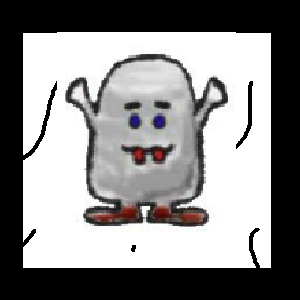
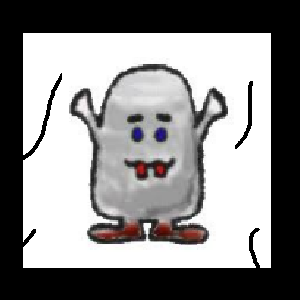
better Wumpus.png && fill pits is working

Changed region(s): [[0.18, 0.18, 0.78, 0.84], [0.21, 0.09, 0.78, 0.12]]

diff --git a/src/main/java/org/example/Game.java b/src/main/java/org/example/Game.java
@@ -256,6 +256,7 @@ public class Game implements ActionListener{
         //wumpus movement
         if(wumpus.isAlive()) wumpus.move(board, rand);
         if(monster2.isAlive()) monster2.move(board,rand,player);
+        this.updateBoard();
         playerTurn();
     }
 
@@ -443,12 +444,14 @@ public class Game implements ActionListener{
         arrow_b.setVisible(false);
         shoot_b.setVisible(false);
         drop_b.setVisible(false);
+        fill_b.setVisible(false);
 
         gold_b.setEnabled(false);
         wood_b.setEnabled(false);
         arrow_b.setEnabled(false);
         shoot_b.setEnabled(false);
         drop_b.setEnabled(false);
+        fill_b.setEnabled(false);
     }
     @Override
     public void actionPerformed(ActionEvent e) {
@@ -481,6 +484,7 @@ public class Game implements ActionListener{
                 player.setWood(player.getWood() - 1);
                 if(player.getY() + 1 < board.length && board[player.getX()][player.getY() + 1].isPit()) {
                     board[player.getX()][player.getY() + 1].setPit(false);
+                    updateWind(player.getX(), player.getY() + 1);
                     campLabels[player.getX()][player.getY() + 1].setIcon(campIcon); //todo create another icon
                 }
                 fill_state = false;
@@ -505,6 +509,7 @@ public class Game implements ActionListener{
                 player.setWood(player.getWood() - 1);
                 if(player.getX() + 1 < board.length && board[player.getX() + 1][player.getY()].isPit()) {
                     board[player.getX() + 1][player.getY()].setPit(false);
+                    updateWind(player.getX() + 1, player.getY());
                     campLabels[player.getX() + 1][player.getY()].setIcon(campIcon); //todo create another icon
                 }
                 fill_state = false;
@@ -528,6 +533,7 @@ public class Game implements ActionListener{
                 player.setWood(player.getWood() - 1);
                 if(player.getX() - 1 >= 0 && board[player.getX() - 1][player.getY()].isPit()) {
                     board[player.getX() - 1][player.getY()].setPit(false);
+                    updateWind(player.getX() - 1, player.getY());
                     campLabels[player.getX() - 1][player.getY()].setIcon(campIcon); //todo create another icon
                 }
                 fill_state = false;
@@ -580,18 +586,15 @@ public class Game implements ActionListener{
             fill_state = true;
         }
 
-        if(!lantern_state && !shoot_state && !fill_state){
-            normal_state = true;
-        }  else normal_state = false;
+        normal_state = !lantern_state && !shoot_state && !fill_state;
 
 
         if(!normal_state) hideNonDirectionButtons();
         updateConsoleAndButtons();
-        this.updateBoard();
         if(normal_state) monsterTurn();
     }
 
-    public void removeWumpus()
+    public void removeWumpus() //todo use
     {
         board[wumpus.getX()][wumpus.getY()].setWumpus(false);
         campLabels[wumpus.getX()][wumpus.getY()].setIcon(campIcon);
@@ -599,17 +602,45 @@ public class Game implements ActionListener{
 
     public void removeMonster2()
     {
-
         board[monster2.getX()][monster2.getY()].setWumpus(false);
         campLabels[monster2.getX()][monster2.getY()].setIcon(campIcon);
     }
 
     public void updateWind(int x, int y)
     {
-        if(x + 1 < board.length) board[x+1][y].setWindy(false); //todo false positives here
-        if(y + 1 < board.length) board[x][y+1].setWindy(false);
-        if(x - 1 >= 0) board[x-1][y].setWindy(false);
-        if(y - 1 >= 0) board[x][y-1].setWindy(false);
+        if(hasNearbyPit(x,y))
+            board[x][y].setWindy(true);
+        if(x + 1 < board.length){
+            if(!hasNearbyPit(x + 1, y))
+                board[x + 1][y].setWindy(false);
+        }
+        if(y + 1 < board.length){
+            if(!hasNearbyPit(x, y + 1))
+                board[x][y + 1].setWindy(false);
+        }
+        if(x - 1 >= 0){
+            if(!hasNearbyPit(x - 1, y))
+                board[x - 1][y].setWindy(false);
+        }
+        if(y - 1 >= 0){
+            if(!hasNearbyPit(x, y - 1))
+                board[x][y - 1].setWindy(false);
+        }
+    }
+
+    public boolean hasNearbyPit(int x, int y)
+    {
+        int pits = 0;
+        if(y + 1 < board.length)
+            if(board[x][y + 1].isPit()) pits++;
+        if(x + 1 < board.length)
+            if(board[x + 1][y].isPit()) pits++;
+        if(y - 1 >= 0)
+            if(board[x][y - 1].isPit()) pits++;
+        if(x - 1 >= 0)
+            if(board[x - 1][y].isPit()) pits++;
+
+        return pits > 0;
     }
     public void setRand(Random rand) {
         this.rand = rand;
